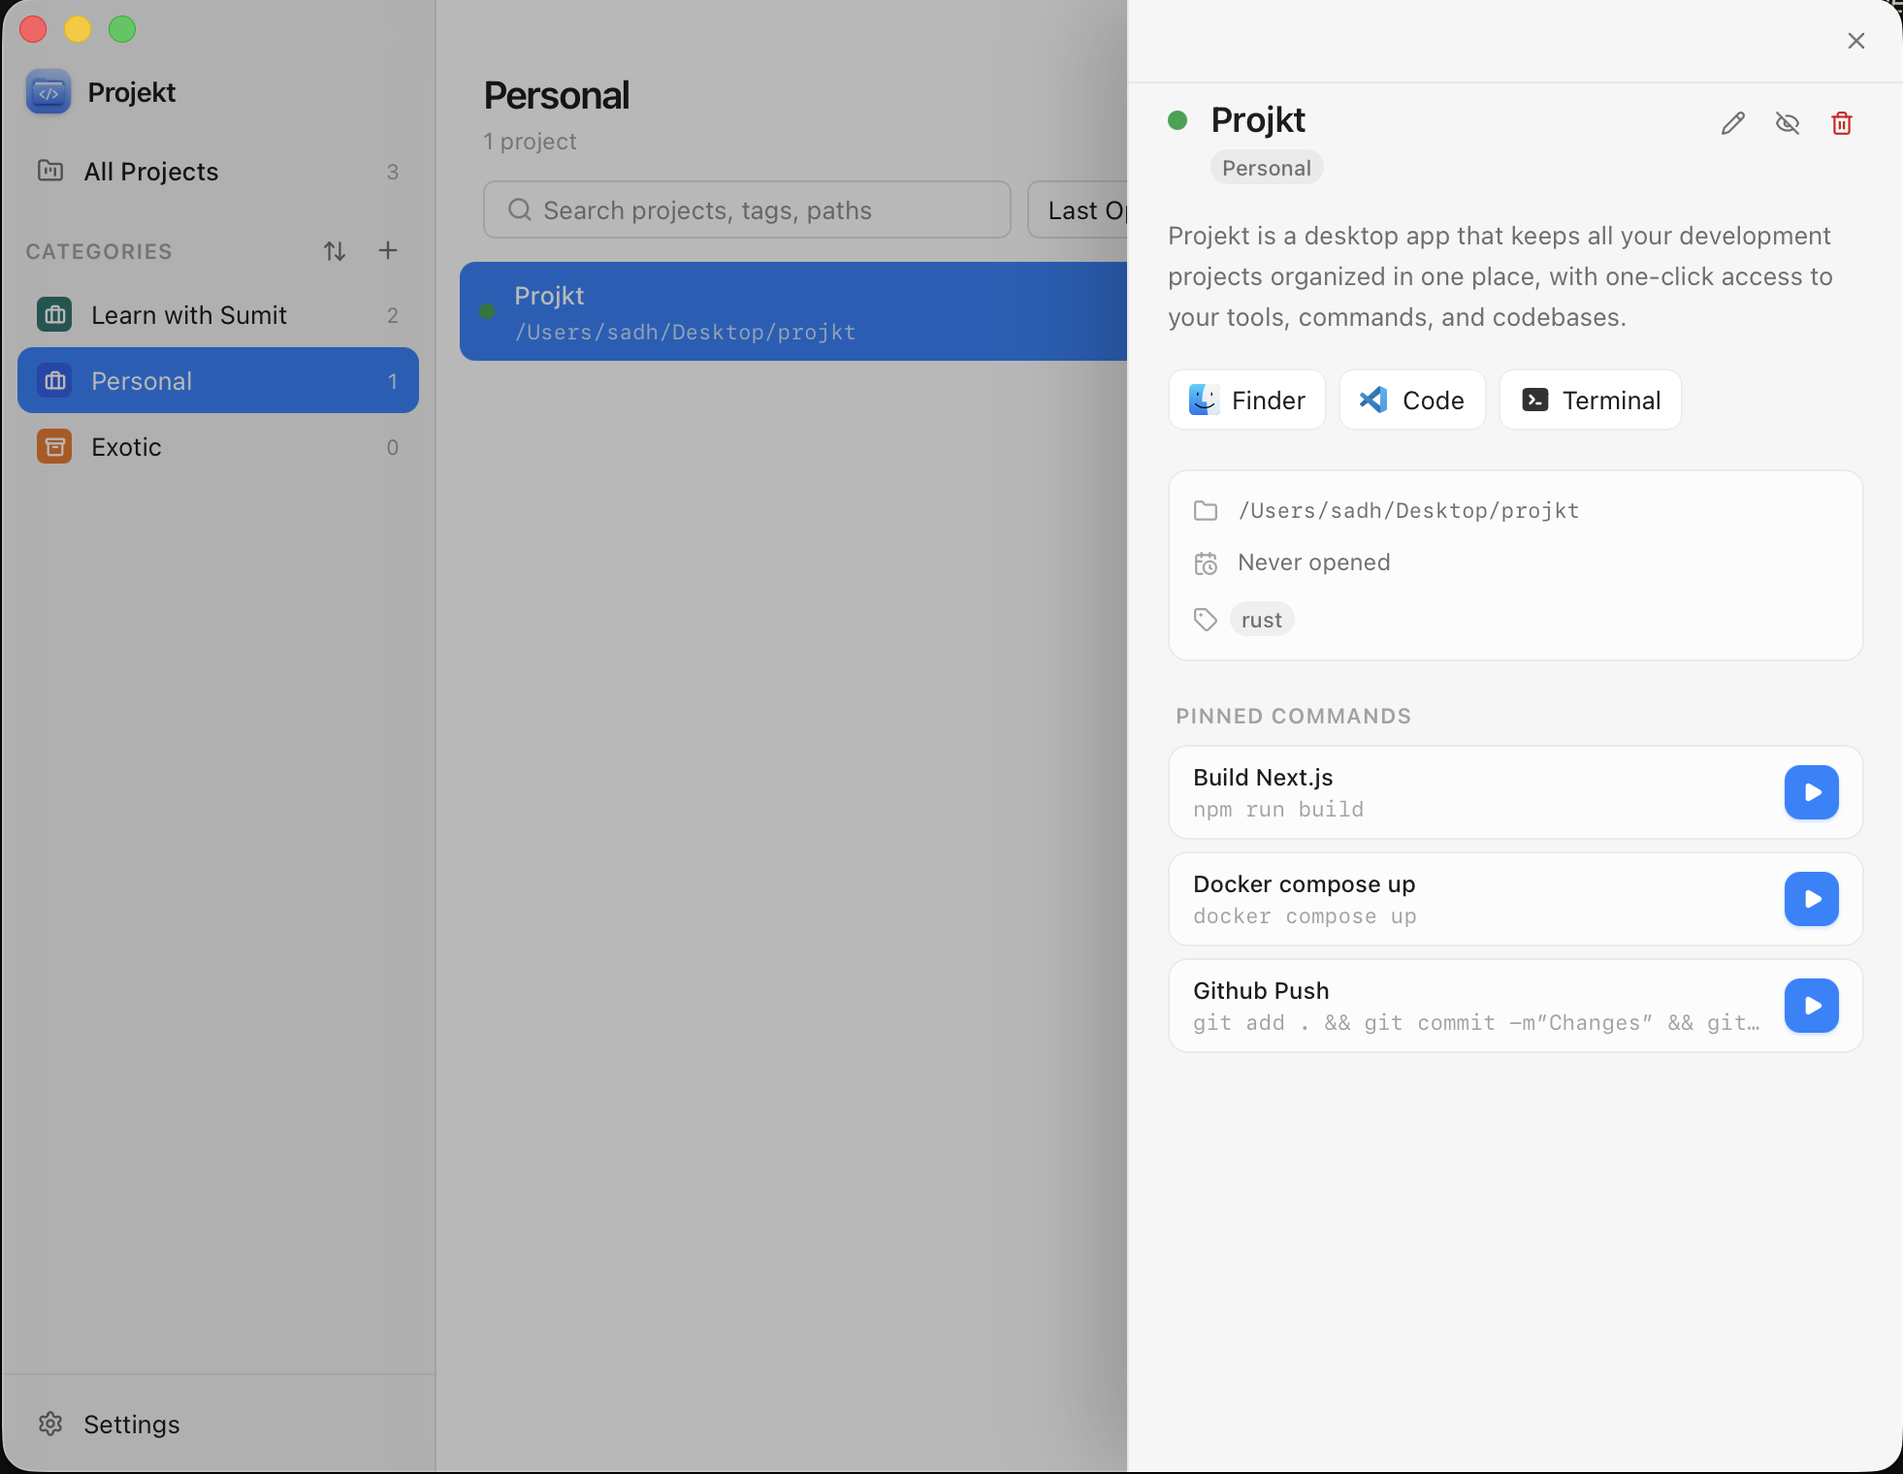
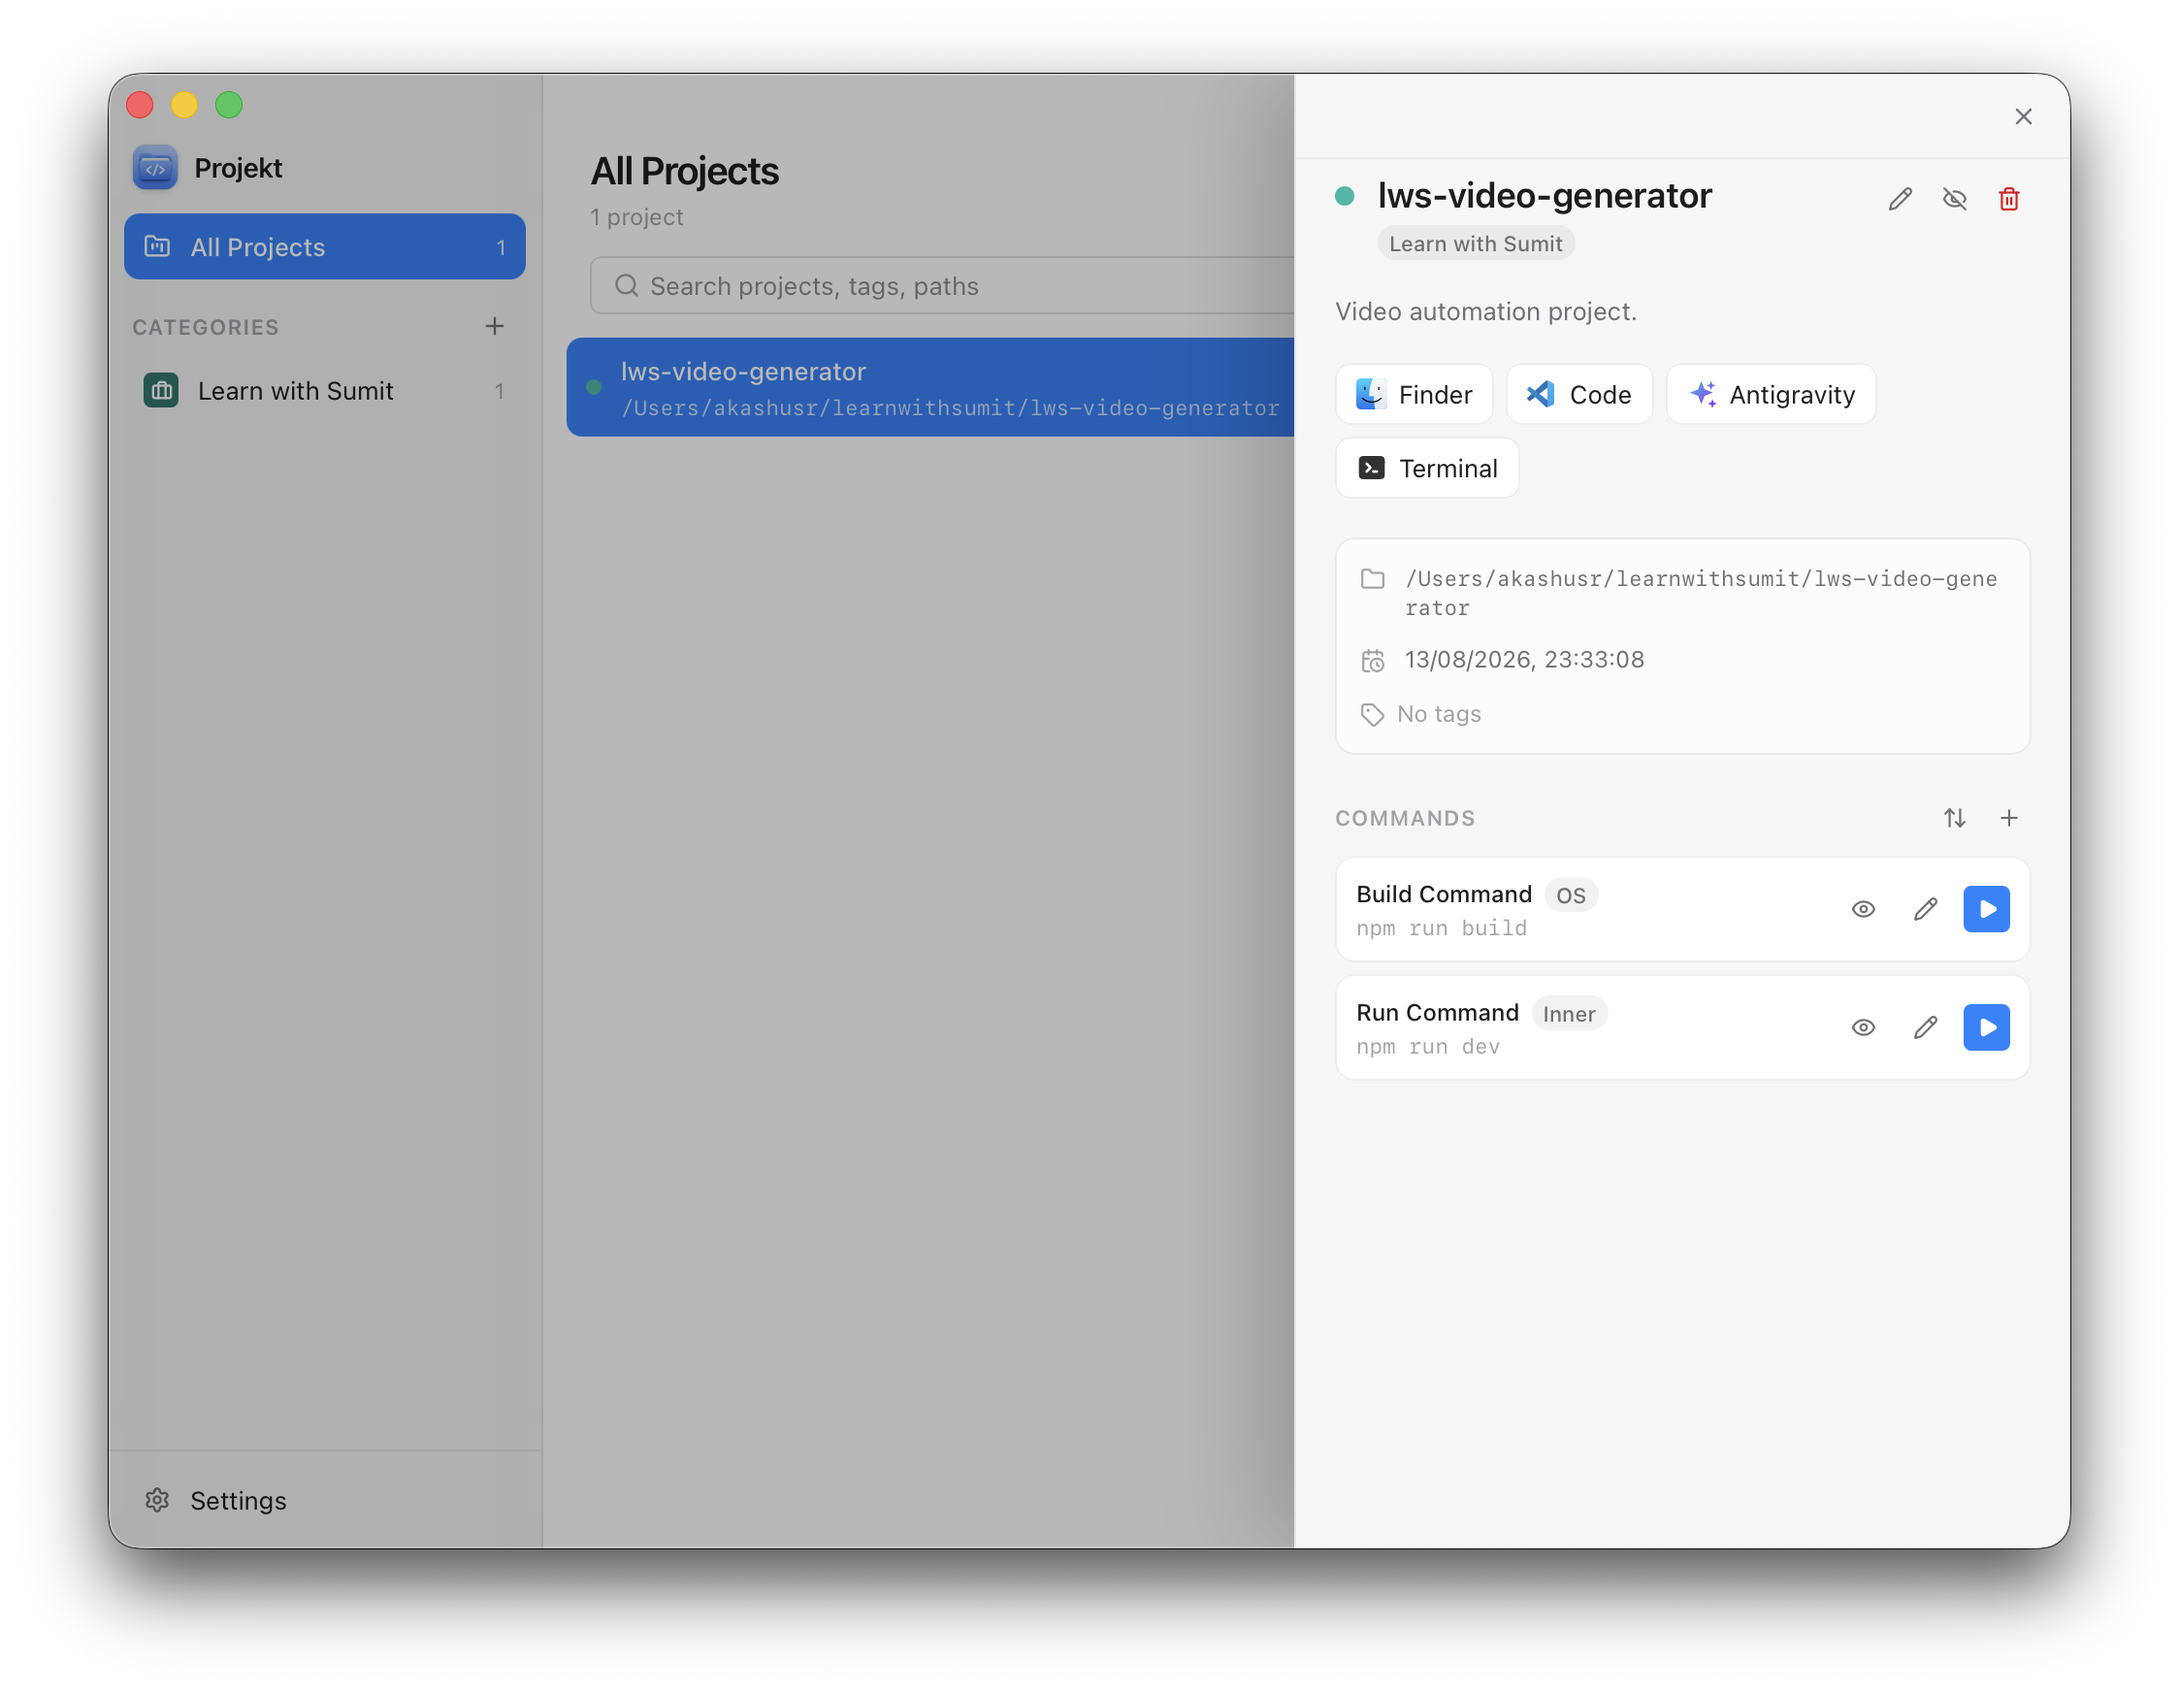
feat: add Antigravity IDE support

diff --git a/src/components/ProjectList/ProjectCard.tsx b/src/components/ProjectList/ProjectCard.tsx
@@ -10,6 +10,7 @@ import {
   Pencil,
   Terminal,
   Trash2,
+  Wand2,
 } from "lucide-react";
 import { findCategoryName } from "../../lib/categoryUtils";
 import { cx } from "../../lib/cx";
@@ -47,7 +48,7 @@ export function ProjectCard({
   const categoryName = findCategoryName(categories, project.categoryId);
   const setEditingProjectId = useProjectUiStore((state) => state.setEditingProjectId);
   const setSelectedProjectId = useProjectUiStore((state) => state.setSelectedProjectId);
-  const { hideProject, deleteProject, openFinder, openVsCode, openTerminal } = useProjectActions();
+  const { hideProject, deleteProject, openFinder, openVsCode, openAntigravity, openTerminal } = useProjectActions();
   const { position, open, close } = useContextMenu();
 
   const handleDelete = async () => {
@@ -80,6 +81,13 @@ export function ProjectCard({
         label: "Open in VS Code",
         icon: <Code2 size={14} />,
         onSelect: () => openVsCode.mutate(project.id),
+      },
+      {
+        kind: "action",
+        id: "antigravity",
+        label: "Open in Antigravity",
+        icon: <Wand2 size={14} />,
+        onSelect: () => openAntigravity.mutate(project.id),
       },
       {
         kind: "action",
@@ -117,6 +125,7 @@ export function ProjectCard({
       project.hidden,
       openFinder,
       openVsCode,
+      openAntigravity,
       openTerminal,
       hideProject,
       setEditingProjectId,

diff --git a/src/components/ProjectDetail/ActionBar.tsx b/src/components/ProjectDetail/ActionBar.tsx
@@ -11,15 +11,17 @@ type ActionBarProps = {
 const hardcodedActions = [
   { id: "finder", label: "Finder", icon: "/finder.svg" },
   { id: "vscode", label: "Code", icon: "/vscode.svg" },
+  { id: "antigravity", label: "Antigravity", icon: "/antigravity.svg" },
   { id: "terminal", label: "Terminal", icon: "/terminal.svg" },
 ] as const;
 
 export function ActionBar({ project, launchers }: ActionBarProps) {
-  const { openFinder, openVsCode, openTerminal, openWithLauncher } = useProjectActions();
+  const { openFinder, openVsCode, openAntigravity, openTerminal, openWithLauncher } = useProjectActions();
 
   const handlers: Record<(typeof hardcodedActions)[number]["id"], () => void> = {
     finder: () => openFinder.mutate(project.id),
     vscode: () => openVsCode.mutate(project.id),
+    antigravity: () => openAntigravity.mutate(project.id),
     terminal: () => openTerminal.mutate(project.id),
   };
 

diff --git a/src/lib/api.ts b/src/lib/api.ts
@@ -35,6 +35,7 @@ export const api = {
   reorderProjects: (ids: string[]) => call<Project[]>("reorder_projects", { ids }),
   openFinder: (projectId: string) => call<void>("open_project_in_finder", { projectId }),
   openVsCode: (projectId: string) => call<void>("open_project_in_vscode", { projectId }),
+  openAntigravity: (projectId: string) => call<void>("open_project_in_antigravity", { projectId }),
   openTerminal: (projectId: string) => call<void>("open_project_in_terminal", { projectId }),
   runCommandTemplate: (projectId: string, templateId: string) =>
     call<CommandRunResult>("run_project_command_template", { projectId, templateId }),

diff --git a/src/hooks/useProjects.ts b/src/hooks/useProjects.ts
@@ -57,6 +57,10 @@ export const useProjectActions = () => {
       mutationFn: (projectId: string) => api.openVsCode(projectId),
       onSuccess: invalidate,
     }),
+    openAntigravity: useMutation({
+      mutationFn: (projectId: string) => api.openAntigravity(projectId),
+      onSuccess: invalidate,
+    }),
     openTerminal: useMutation({
       mutationFn: (projectId: string) => api.openTerminal(projectId),
       onSuccess: invalidate,

diff --git a/src-tauri/src/commands/shell.rs b/src-tauri/src/commands/shell.rs
@@ -165,6 +165,17 @@ pub fn open_project_in_vscode(
 }
 
 #[tauri::command]
+pub fn open_project_in_antigravity(
+    app: AppHandle,
+    db: State<'_, Database>,
+    project_id: String,
+) -> Result<(), String> {
+    let path = project_path(&db, &project_id).map_err(command_error)?;
+    open_antigravity(&app, &path).map_err(command_error)?;
+    mark_opened(&db, &project_id).map_err(command_error)
+}
+
+#[tauri::command]
 pub fn open_project_in_terminal(
     app: AppHandle,
     db: State<'_, Database>,
@@ -321,6 +332,26 @@ fn open_vscode(app: &AppHandle, path: &str) -> anyhow::Result<()> {
     #[cfg(not(target_os = "macos"))]
     {
         return spawn(app, "code", vec![path.to_string()]);
+    }
+}
+
+fn open_antigravity(app: &AppHandle, path: &str) -> anyhow::Result<()> {
+    #[cfg(target_os = "macos")]
+    {
+        return spawn(
+            app,
+            "open",
+            vec![
+                "-a".to_string(),
+                "Antigravity IDE".to_string(),
+                path.to_string(),
+            ],
+        );
+    }
+
+    #[cfg(not(target_os = "macos"))]
+    {
+        return spawn(app, "agy", vec![path.to_string()]);
     }
 }
 

diff --git a/src-tauri/src/lib.rs b/src-tauri/src/lib.rs
@@ -62,6 +62,7 @@ pub fn run() {
             commands::shell::list_available_shells,
             commands::shell::open_project_in_finder,
             commands::shell::open_project_in_vscode,
+            commands::shell::open_project_in_antigravity,
             commands::shell::open_project_in_terminal,
             commands::shell::launch_project_app,
             commands::terminal::run_project_command_template,
